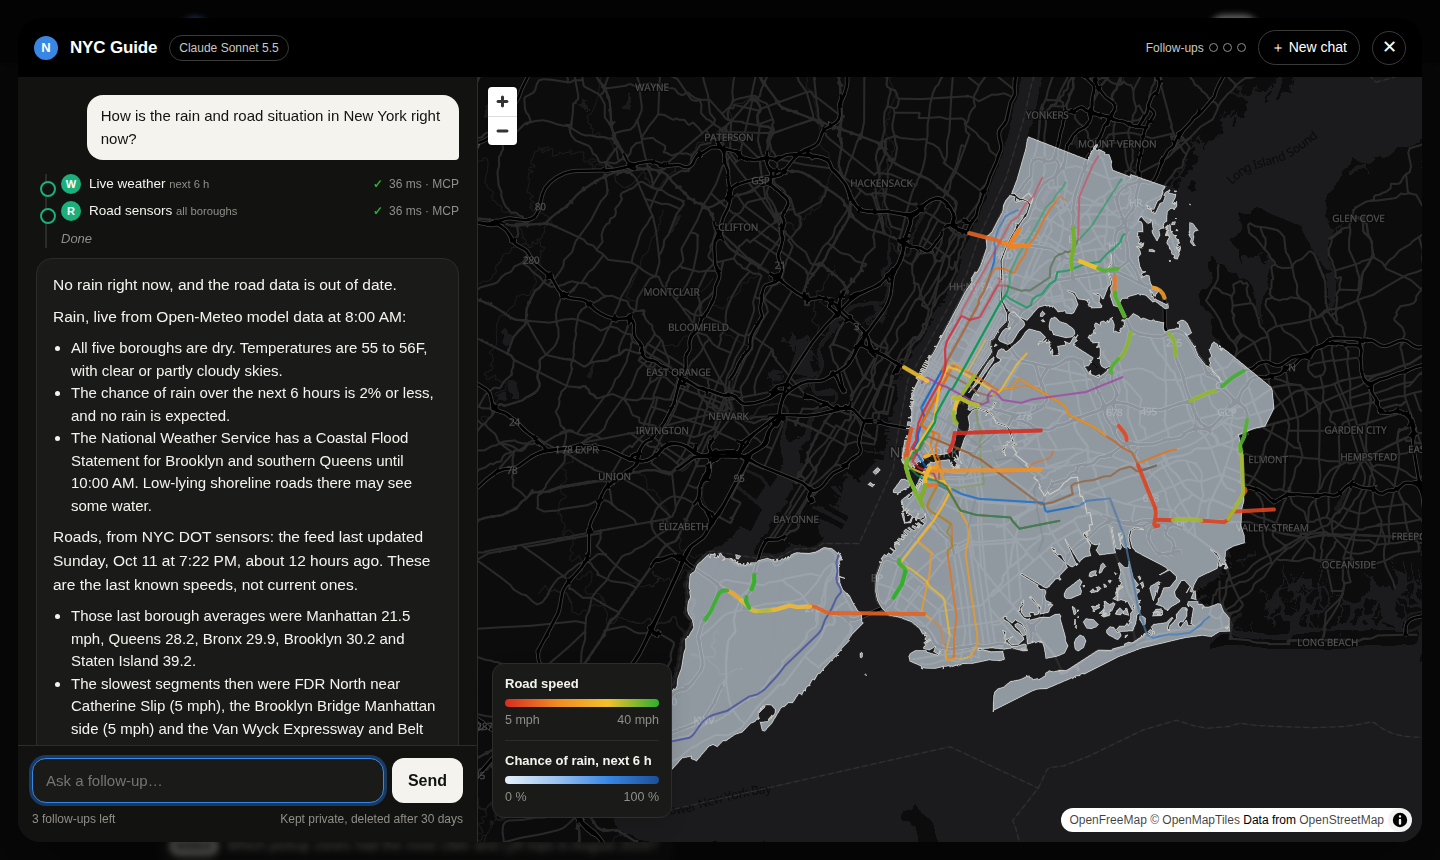
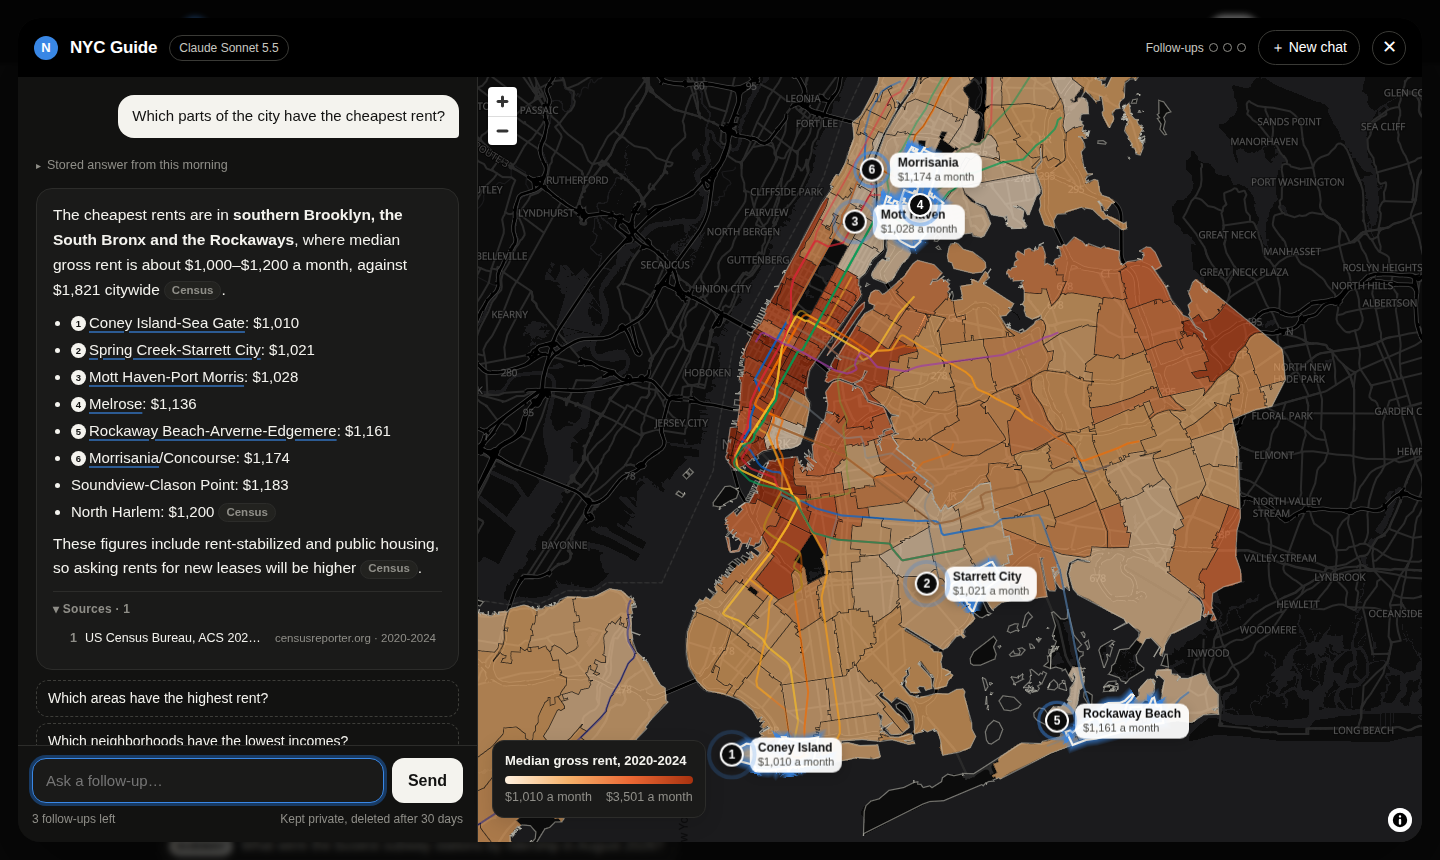
new screenshots; stored answers say earlier today

diff --git a/web/static/guide.js b/web/static/guide.js
@@ -297,7 +297,7 @@ class TurnView {
   fold(d, nSources) {
     const steps = Object.keys(this.steps).length;
     const secs = ((d.latency_ms || performance.now() - this.started) / 1000).toFixed(1);
-    const bits = d.cached ? ["Stored answer from this morning"]
+    const bits = d.cached ? ["Stored answer from earlier today"]
       : [`Worked for ${secs} s`, steps ? `${steps} ${steps === 1 ? "check" : "checks"}` : "",
         d.cost_usd ? `$${Number(d.cost_usd).toFixed(3)}` : "", d.fell_back ? "backup model" : ""];
     this.now.textContent = "";

diff --git a/web/static/landing.js b/web/static/landing.js
@@ -1,7 +1,7 @@
 // Landing page: the live map drawing, the ticker, examples, the lakehouse diagram, and the
 // hand-off to the guide overlay.
 
-import { guide } from "./guide.js?v=7";
+import { guide } from "./guide.js?v=8";
 import { drawHero } from "./hero.js?v=3";
 
 const { el, get } = NY;

diff --git a/web/index.html b/web/index.html
@@ -176,6 +176,6 @@
 </div>
 
 <script src="static/app.js?v=6"></script>
-<script type="module" src="static/landing.js?v=7"></script>
+<script type="module" src="static/landing.js?v=8"></script>
 </body>
 </html>

diff --git a/src/nycynapse/api/chat.py b/src/nycynapse/api/chat.py
@@ -305,7 +305,7 @@ def _answer_payload(slot: Slot, out: dict, cached: bool = False) -> dict:
 
 def _replay(cached: dict):
     """A stored example answer, played back as the same events, quickly."""
-    yield _sse("status", {"text": "Answered this morning from the same sources"})
+    yield _sse("status", {"text": "Answered earlier today from the same sources"})
     for i, s in enumerate(cached.get("steps") or []):
         if "tool" not in s:
             continue

diff --git a/README.md b/README.md
@@ -6,7 +6,7 @@ A guide to New York City you can ask anything. It answers from the city's own da
 
 <picture>
   <source media="(prefers-color-scheme: dark)" srcset="docs/img/guide-dark.png">
-  <img alt="The guide answering a question about rain and roads in New York, with each source it used and a map shading the boroughs by chance of rain and the roads by speed" src="docs/img/guide-light.png">
+  <img alt="The guide answering which parts of the city have the cheapest rent, with a cited source and a map shading ZIP code areas by median rent and numbering the six cheapest neighborhoods" src="docs/img/guide-light.png">
 </picture>
 
 Under the guide is a QueryGPT-style text-to-SQL pipeline, following the path Uber described for [QueryGPT](https://www.uber.com/blog/query-gpt/) and the semantic layers that came after it: a question is never answered by handing a model the whole schema, but narrowed step by step to a domain, tables, values and joins, and only then SQL, checked before and after it runs. That pipeline is the guide's first and cheapest tool, and it is what the evaluation below measures.
